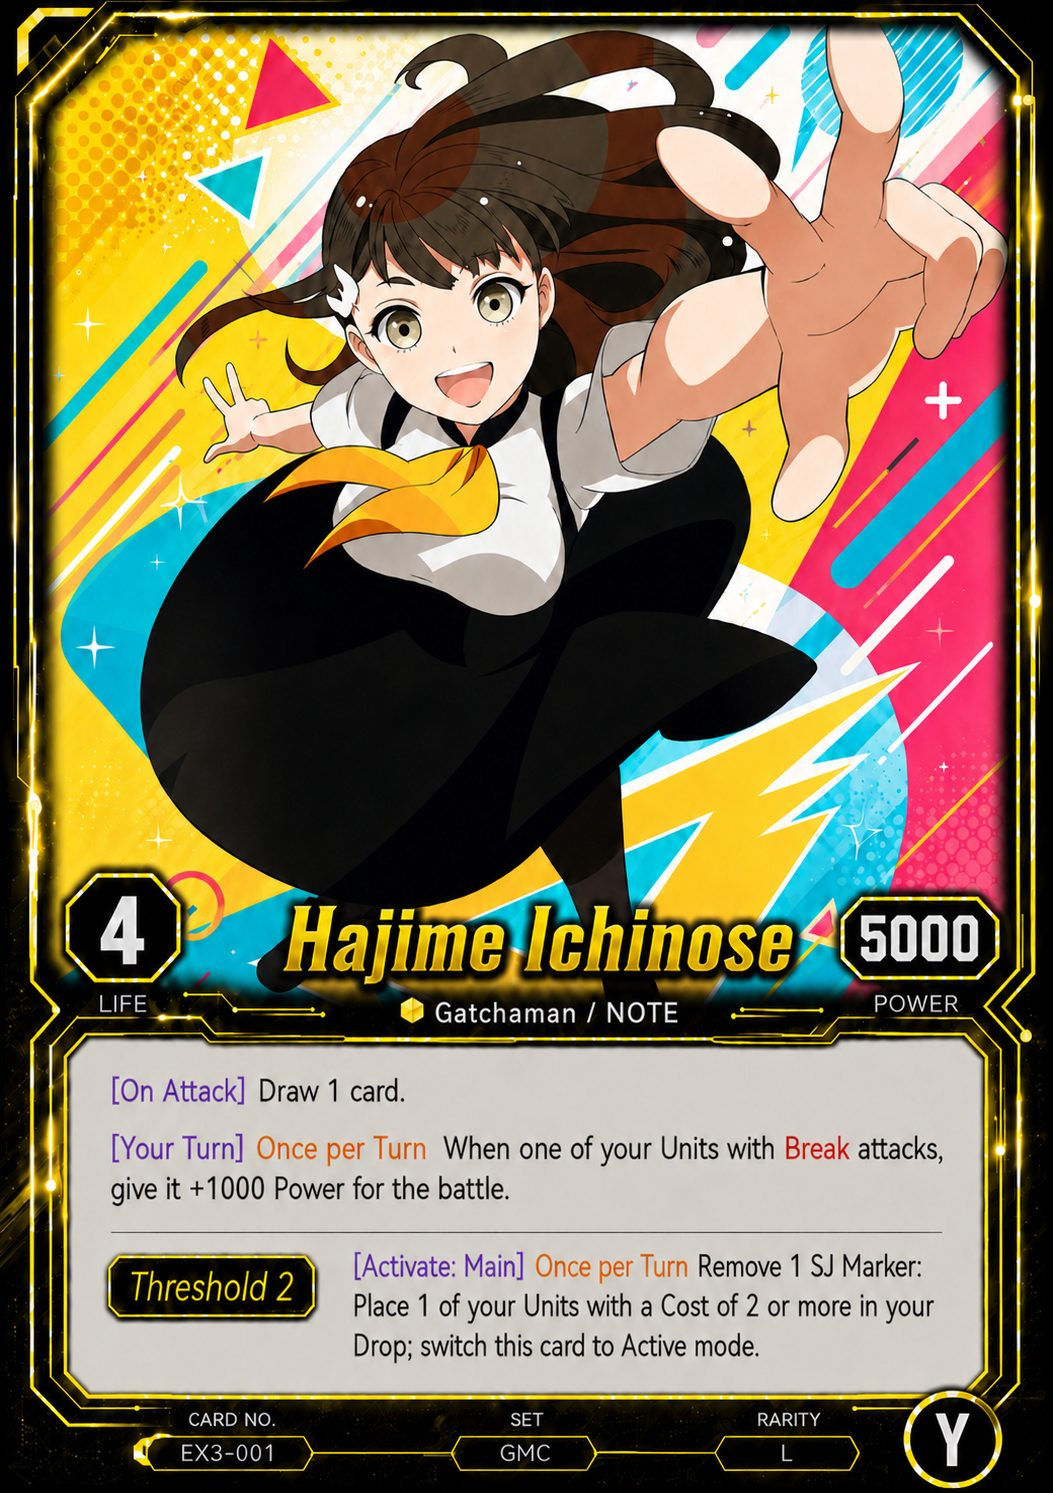
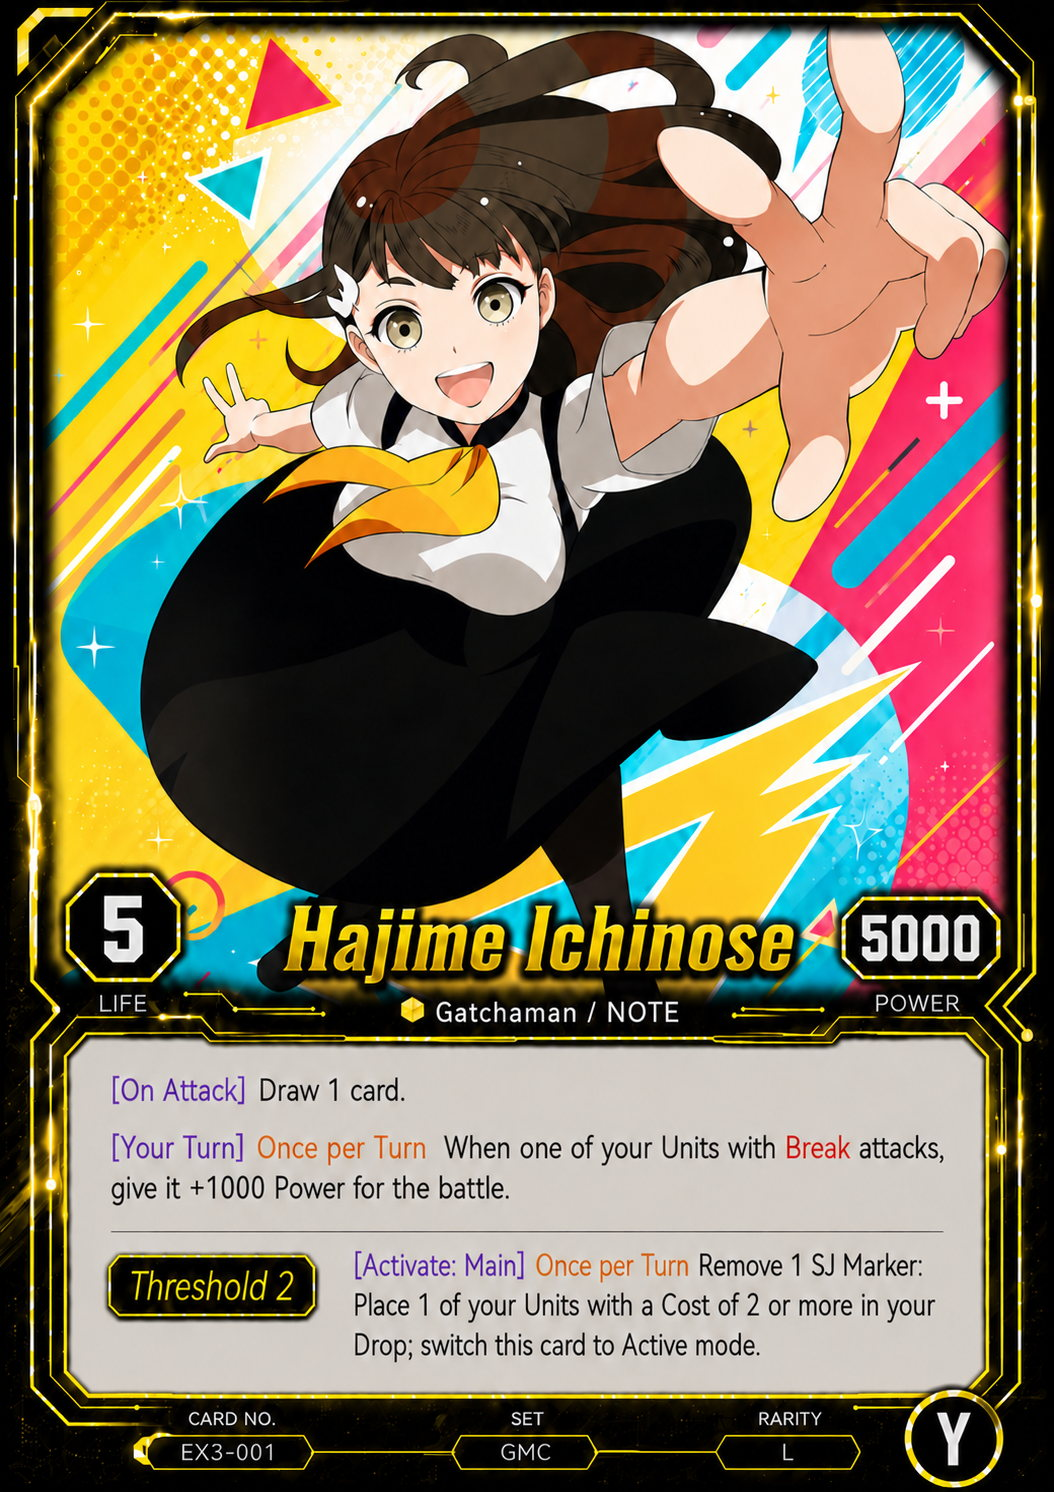
Update six Leader life revisions and Control Devil effects

diff --git a/card-text-data.js b/card-text-data.js
@@ -5,15 +5,15 @@ window.SJTCG_CARD_TEXT = {
     "color": "Yellow",
     "cost": "",
     "sj_cost": "",
-    "life": "6",
+    "life": "5",
     "power": "5000",
     "counter": "",
     "traits": "Devil / Four Horsemen",
     "set": "CSM",
     "rarity": "L",
     "bottom_right_circle": "Y",
-    "effect": "[Opponent's Attack] Once per Turn Switch the attack target to 1 of your Units.\n[End of Opponent's Turn] Add up to 1 \"Nayuta\" from your Drop to your hand.\nThreshold 4 [Activate: Main] Once per Turn Remove 1 \"Nayuta\" in your Drop from the game; shuffle up to 3 cards with the \"Control Devil\" Trait from your Drop into your Deck. Then, draw 1 card.",
-    "effect_html": "<span class=\"kw kw-purple\" title=\"Timing window\">[Opponent&#39;s Attack]</span> <span class=\"kw kw-orange\" title=\"Once per Turn\">Once per Turn</span> Switch the attack target to 1 of your Units.<br><span class=\"kw kw-purple\" title=\"Timing window\">[End of Opponent&#39;s Turn]</span> Add up to 1 &quot;Nayuta&quot; from your Drop to your hand.<br><span class=\"kw kw-orange\" title=\"Threshold X\">Threshold 4</span> <span class=\"kw kw-purple\" title=\"Timing window\">[Activate: Main]</span> <span class=\"kw kw-orange\" title=\"Once per Turn\">Once per Turn</span> Remove 1 &quot;Nayuta&quot; in your Drop from the game; shuffle up to 3 cards with the &quot;Control Devil&quot; Trait from your Drop into your Deck. Then, draw 1 card.",
+    "effect": "[Opponent's Attack] Once per Turn Make 1 of your Units the new attack target.\n[End of Opponent's Turn] Add up to 1 \"Nayuta\" from your Drop to your hand.\nThreshold 3 [Activate: Main] Once per Turn Remove 1 \"Nayuta\" in your Drop from the game: Shuffle up to 3 cards with the \"Control Devil\" Trait from your Drop into your Deck; draw 1 card.",
+    "effect_html": "<span class=\"kw kw-purple\" title=\"Timing window\">[Opponent&#x27;s Attack]</span> <span class=\"kw kw-orange\" title=\"Once per Turn\">Once per Turn</span> Make 1 of your Units the new attack target.<br><span class=\"kw kw-purple\" title=\"Timing window\">[End of Opponent&#x27;s Turn]</span> Add up to 1 &quot;Nayuta&quot; from your Drop to your hand.<br><span class=\"kw kw-orange\" title=\"Threshold X\">Threshold 3</span> <span class=\"kw kw-purple\" title=\"Timing window\">[Activate: Main]</span> <span class=\"kw kw-orange\" title=\"Once per Turn\">Once per Turn</span> Remove 1 &quot;Nayuta&quot; in your Drop from the game: Shuffle up to 3 cards with the &quot;Control Devil&quot; Trait from your Drop into your Deck; draw 1 card.",
     "notes": "",
     "transcription_status": "verified",
     "release": "ST1",
@@ -5870,7 +5870,7 @@ window.SJTCG_CARD_TEXT = {
     "color": "Yellow",
     "cost": "",
     "sj_cost": "",
-    "life": "5",
+    "life": "6",
     "power": "5000",
     "counter": "",
     "traits": "Magical Girl / Butterfly",
@@ -7710,7 +7710,7 @@ window.SJTCG_CARD_TEXT = {
     "color": "Pink",
     "cost": "",
     "sj_cost": "",
-    "life": "4",
+    "life": "5",
     "power": "5000",
     "counter": "",
     "traits": "Cardcaptor",
@@ -15054,7 +15054,7 @@ window.SJTCG_CARD_TEXT = {
     "color": "Yellow",
     "cost": "",
     "sj_cost": "",
-    "life": "4",
+    "life": "5",
     "power": "5000",
     "counter": "",
     "traits": "Gatchaman / NOTE",
@@ -18343,7 +18343,7 @@ window.SJTCG_CARD_TEXT = {
     "color": "Red",
     "cost": "",
     "sj_cost": "",
-    "life": "4",
+    "life": "5",
     "power": "5000",
     "traits": "Demon Slayer / Hashira",
     "set": "KNY",
@@ -18797,7 +18797,7 @@ window.SJTCG_CARD_TEXT = {
     "color": "Green",
     "cost": "",
     "sj_cost": "",
-    "life": "5",
+    "life": "6",
     "power": "5000",
     "traits": "Shinigami",
     "set": "BLC",

diff --git a/cards-data.js b/cards-data.js
@@ -9,13 +9,13 @@ window.SJTCG_CARD_DATA = [
     "cardType": "Leader",
     "deckLimit": 1,
     "orientation": "Portrait",
-    "imageVersion": "163b5ac3dd4d",
+    "imageVersion": "78f3fe972667",
     "altImages": [
       {
         "label": "ST7 Leader Reprint — Alt Art",
         "image": "images/ST1-001-alt1.jpg",
         "release": "ST7",
-        "imageVersion": "83a4062f7c6a"
+        "imageVersion": "112b200424a7"
       }
     ]
   },
@@ -3158,13 +3158,13 @@ window.SJTCG_CARD_DATA = [
     "cardType": "Leader",
     "deckLimit": 1,
     "orientation": "Portrait",
-    "imageVersion": "cc860460ca60",
+    "imageVersion": "f7b31463b7a1",
     "altImages": [
       {
         "label": "ST7 Leader Reprint — Alt Art",
         "image": "images/ST3-001-alt1.jpg",
         "release": "ST7",
-        "imageVersion": "14135a69db58"
+        "imageVersion": "ceb248bcb544"
       }
     ]
   },
@@ -4150,13 +4150,13 @@ window.SJTCG_CARD_DATA = [
     "cardType": "Leader",
     "deckLimit": 1,
     "orientation": "Portrait",
-    "imageVersion": "8def5ea0b52a",
+    "imageVersion": "61a3f8dc1d11",
     "altImages": [
       {
         "label": "ST7 Leader Reprint — Alt Art",
         "image": "images/ST3-081-alt1.jpg",
         "release": "ST7",
-        "imageVersion": "85b3ee0a98d3"
+        "imageVersion": "021f4679ae2c"
       }
     ]
   },
@@ -8106,13 +8106,13 @@ window.SJTCG_CARD_DATA = [
     "cardType": "Leader",
     "deckLimit": 1,
     "orientation": "Portrait",
-    "imageVersion": "2a832aaae568",
+    "imageVersion": "28499d03d4cf",
     "altImages": [
       {
         "label": "ST7 Leader Reprint — Alt Art",
         "image": "images/EX3-001-alt1.jpg",
         "release": "ST7",
-        "imageVersion": "064dc6a90de2"
+        "imageVersion": "4f2e160728ff"
       }
     ]
   },
@@ -9878,13 +9878,13 @@ window.SJTCG_CARD_DATA = [
     "cardType": "Leader",
     "deckLimit": 1,
     "orientation": "Portrait",
-    "imageVersion": "aa41405905d3",
+    "imageVersion": "9c4342de47ab",
     "altImages": [
       {
         "label": "ST7 Leader Reprint — Alt Art",
         "image": "images/SD5-001-alt1.jpg",
         "release": "ST7",
-        "imageVersion": "e1043a237394"
+        "imageVersion": "c1ddc333504b"
       }
     ]
   },
@@ -10126,13 +10126,13 @@ window.SJTCG_CARD_DATA = [
     "cardType": "Leader",
     "deckLimit": 1,
     "orientation": "Portrait",
-    "imageVersion": "5b749b083757",
+    "imageVersion": "3a4f373bc1a0",
     "altImages": [
       {
         "label": "ST7 Leader Reprint — Alt Art",
         "image": "images/SD6-001-alt1.jpg",
         "release": "ST7",
-        "imageVersion": "65c2f7426c33"
+        "imageVersion": "adb74cc3349e"
       }
     ]
   },

diff --git a/index.html b/index.html
@@ -214,8 +214,8 @@
     </section>
   </div>
 
-  <script src="cards-data.js?v=de5efbba61bc"></script>
-  <script src="card-text-data.js?v=8488858e3b1a"></script>
+  <script src="cards-data.js?v=c525ed74db58"></script>
+  <script src="card-text-data.js?v=5f343c44b3be"></script>
   <script src="app.js?v=20261009-reprint-search-2"></script>
 </body>
 </html>
